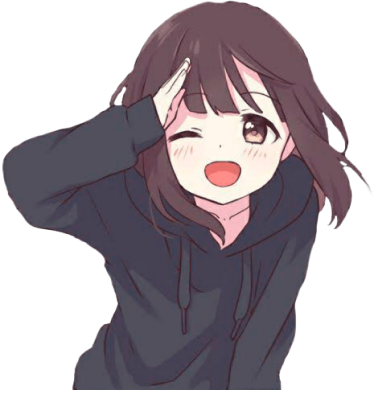
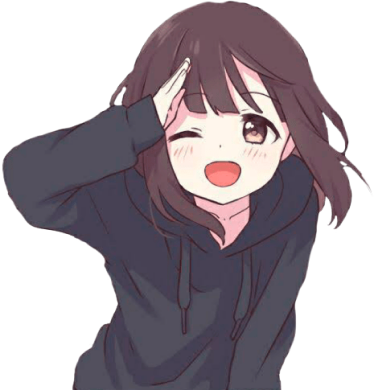
feat: reduce menhera margin
This way she look like on top of the footer

diff --git a/src/pages/index.tsx b/src/pages/index.tsx
@@ -195,9 +195,9 @@ const HomePage = (): JSX.Element => {
             />
           </div>
         </section>
-        <section className='container min-h-fit p-6 mx-auto max-w-7xl flex items-center justify-between'>
-          <div className='hidden md:block'>
-            <Image src='/menhera-piscando.png' width='374' height='394' alt='Menhera piscando!' />
+        <section className='container min-h-fit px-6 pt-6 mx-auto max-w-7xl flex items-center justify-between'>
+          <div className='hidden md:block -mb-3'>
+            <Image src='/menhera-piscando.png' width='374' height='390' alt='Menhera piscando!' />
           </div>
           <div>
             <SectionDivider title='Sobre mim' withoutSpace className='mb-6' />
